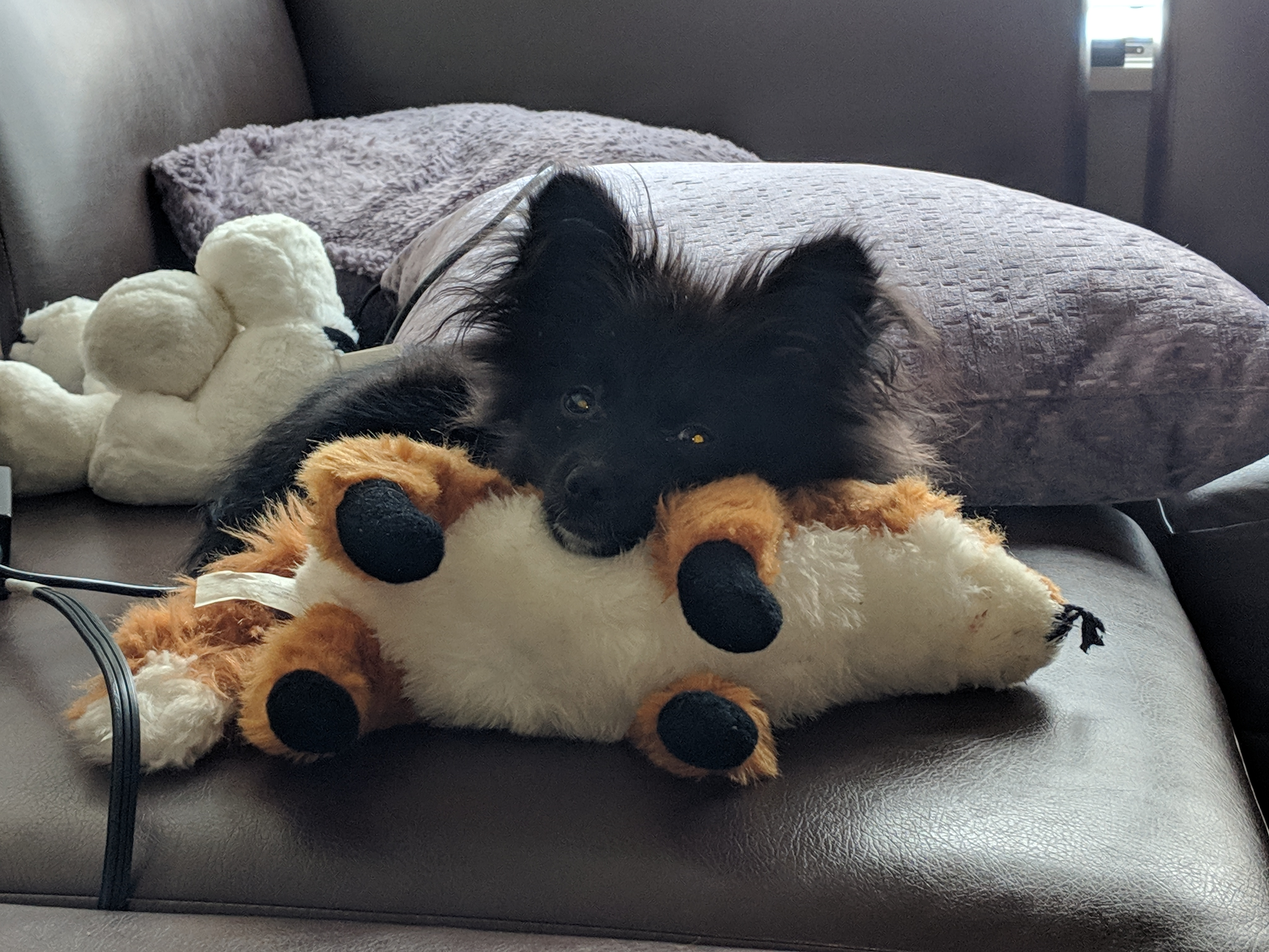
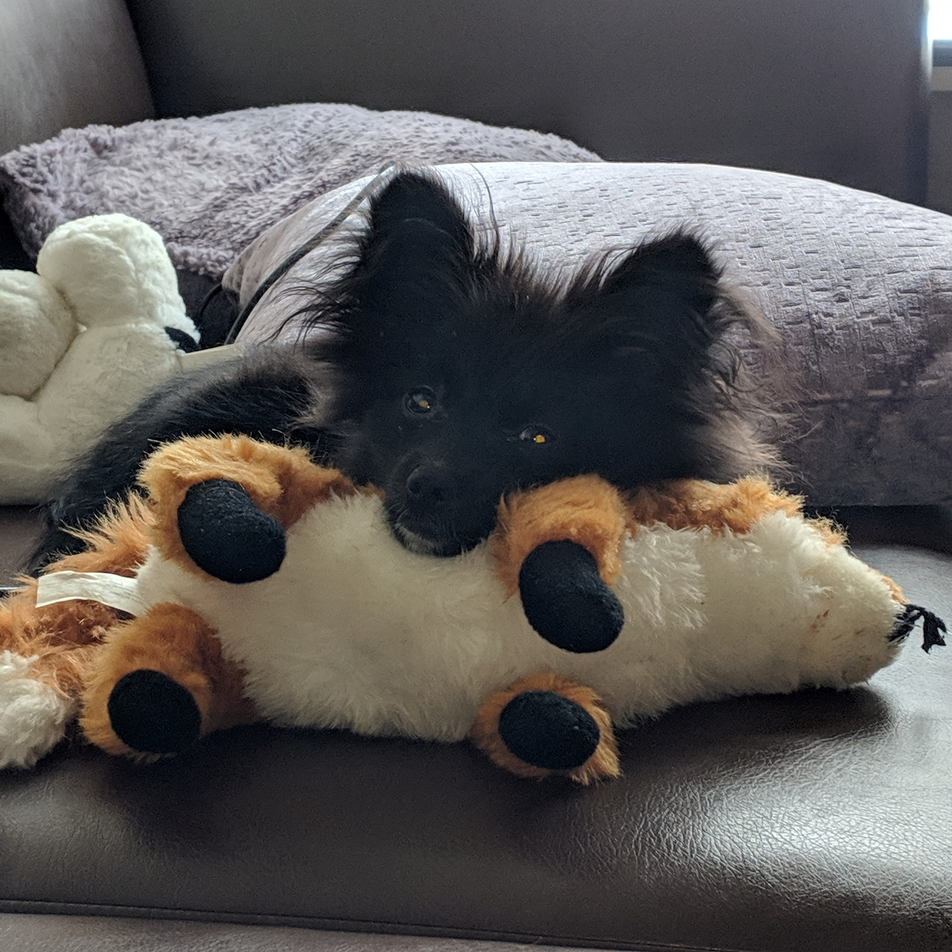
Trimmed sif images and added card instances to about.html

diff --git a/about.html b/about.html
@@ -2,10 +2,9 @@
 <html>
 
 <head>
-	<title>Index</title>
+	<title>About</title>
 	<meta charset="utf-8">
 	<meta http-equiv="X-UA-Compatible" content="IE=edge">
-	<title>Login</title>
 	<meta name="viewport" content="width=device-width, initial-scale=1">
 	<link rel="stylesheet" href="https://maxcdn.bootstrapcdn.com/bootstrap/4.0.0/css/bootstrap.min.css"
 		integrity="sha384-Gn5384xqQ1aoWXA+058RXPxPg6fy4IWvTNh0E263XmFcJlSAwiGgFAW/dAiS6JXm" crossorigin="anonymous">
@@ -19,11 +18,10 @@
 		integrity="sha384-JZR6Spejh4U02d8jOt6vLEHfe/JQGiRRSQQxSfFWpi1MquVdAyjUar5+76PVCmYl"
 		crossorigin="anonymous"></script>
 	<link rel="stylesheet" type="text/css" href="css/about.css">
-	<link rel="stylesheet" type="text/css" href="css/IdentityCard.css">
 </head>
 
 <body>
-	<nav class="navbar navbar-expand-lg navbar-light bg-light">
+	<nav class="navbar navbar-expand-lg navbar-dark bg-dark">
 		<a class="navbar-brand" href="#">Navbar</a>
 		<button class="navbar-toggler" type="button" data-toggle="collapse" data-target="#navbarSupportedContent" aria-controls="navbarSupportedContent" aria-expanded="false" aria-label="Toggle navigation">
 		  <span class="navbar-toggler-icon"></span>
@@ -59,47 +57,41 @@
 		</div>
 	  </nav>
 
-	<!--IdentityCard instance one-->
-	<div class="IdentityCard">
-		<image id="imageOne" src="images/sif_1.jpg" height="300" />
-		<h3>Good Boy</h3>
-		<h6>Sif</h6>
-		<button>Contact</button>
-	</div>
+	<div class="card" style="width: 18rem;">
+		<img src="images/sif_1.jpg" class="card-img-top" alt="...">
+		<div class="card-body">
+		  <h5 class="card-title">Sif</h5>
+		  <p class="card-text">Some quick example text to build on the card title and make up the bulk of the card's content.</p>
+		  <a href="#" class="btn btn-primary">Pet him</a>
+		</div>
+	  </div>
 
-	<!--IdentityCard instance two-->
-	<div class="IdentityCard">
-		<image id="imageTwo" src="images/sif_2.jpg" height="300" />
-		<h3>Gooder Boy</h3>
-		<h6>Sif again</h6>
-		<button>Contact</button>
-	</div>
+	  <div class="card" style="width: 18rem;">
+		<img src="images/sif_2.jpg" class="card-img-top" alt="...">
+		<div class="card-body">
+		  <h5 class="card-title">Sif</h5>
+		  <p class="card-text">Some quick example text to build on the card title and make up the bulk of the card's content.</p>
+		  <a href="#" class="btn btn-primary">Pet him</a>
+		</div>
+	  </div>
 
-	<!--IdentityCard instance three-->
-	<div class="IdentityCard">
-		<image id="imageThree" src="images/sif_3.jpg" height="300" />
-		<h3>Goodest Boy</h3>
-		<h6>Sif, but for a third time</h6>
-		<button>Contact</button>
-	</div>
+	  <div class="card" style="width: 18rem;">
+		<img src="images/sif_3.jpg" class="card-img-top" alt="...">
+		<div class="card-body">
+		  <h5 class="card-title">Sif</h5>
+		  <p class="card-text">Some quick example text to build on the card title and make up the bulk of the card's content.</p>
+		  <a href="#" class="btn btn-primary">Pet him</a>
+		</div>
+	  </div>
 
-	<!--IdentityCard instance four-->
-	<div class="IdentityCard">
-		<image id="imageFour" src="images/sif_4.jpg" height="300" />
-		<h3>Bestest Boy</h3>
-		<h6>Ultimate Sif</h6>
-		<button>Contact</button>
-	</div>
-
-	<ul>
-		<li>Basic looking webpage</li>
-		<li>Not good enough for Sif</li>
-		<li>Will add Sif anyway, because he deserves to be seen</li>
-	</ul>
-	<p>
-		Sif is a pure bred, flat-coat pomeranian. He plays with everything, but he's very clingy.
-		His favorite food is Greenies, but he doesn't eat them half the time. He just plays with them.
-	</p>
+	  <div class="card" style="width: 18rem;">
+		<img src="images/sif_4.jpg" class="card-img-top" alt="...">
+		<div class="card-body">
+		  <h5 class="card-title">Sif</h5>
+		  <p class="card-text">Some quick example text to build on the card title and make up the bulk of the card's content.</p>
+		  <a href="#" class="btn btn-primary">Pet him</a>
+		</div>
+	  </div>
 </body>
 
 </html>

diff --git a/css/about.css b/css/about.css
@@ -1,23 +1,4 @@
-h1 {
-	color: teal;
-	font-family: 'Trebuchet MS';
-}
-
-button {
-	background-color: green;
-	color: cyan;
-}
-
-p {
-	color: teal;
-	font-family: 'Trebuchet MS';
-}
-
-body {
-	padding: 2%;
-}
-
-li {
-	color: teal;
-	font-family: 'Trbuchet MS';
+.card {
+	float: left;
+	margin: 3%;
 }

diff --git a/login.html b/login.html
@@ -22,8 +22,6 @@
 </head>
 
 <body>
-    <!--<object data="object/navbar.html" height="100"></object>-->
-
     <div class="bg-cover">
         <div class="h-100 center-me">
             <div class="my-auto">
